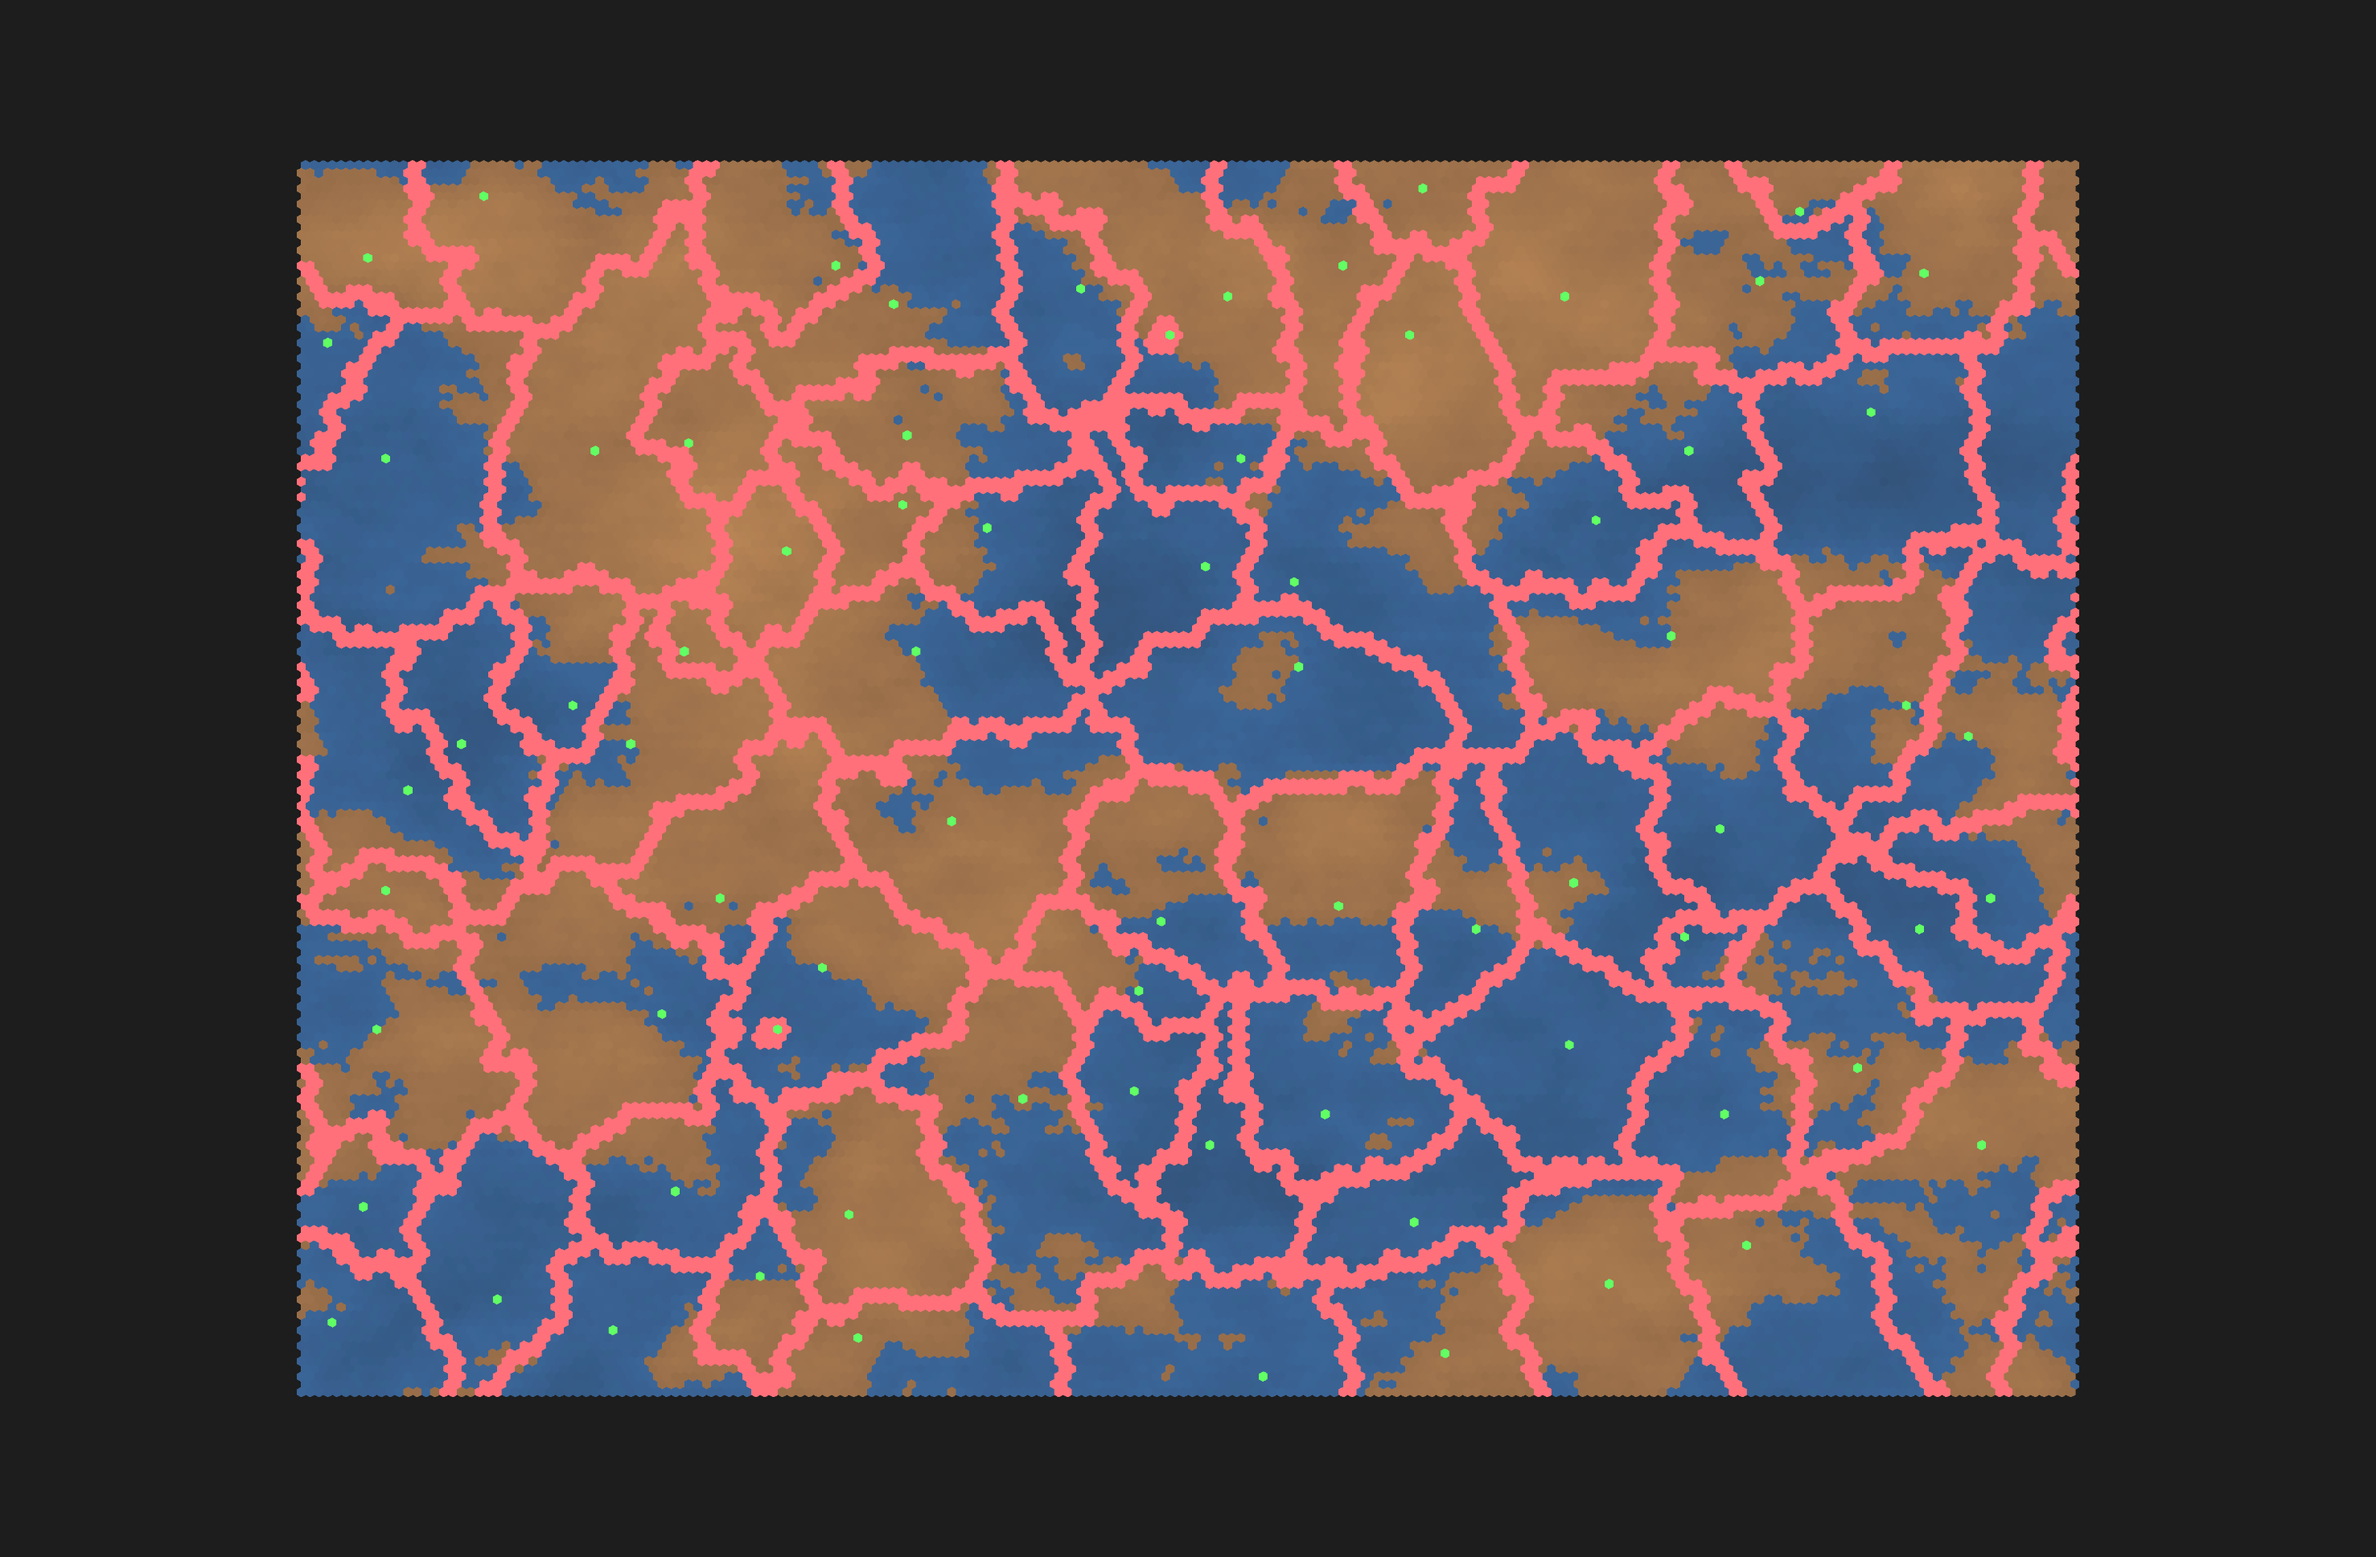
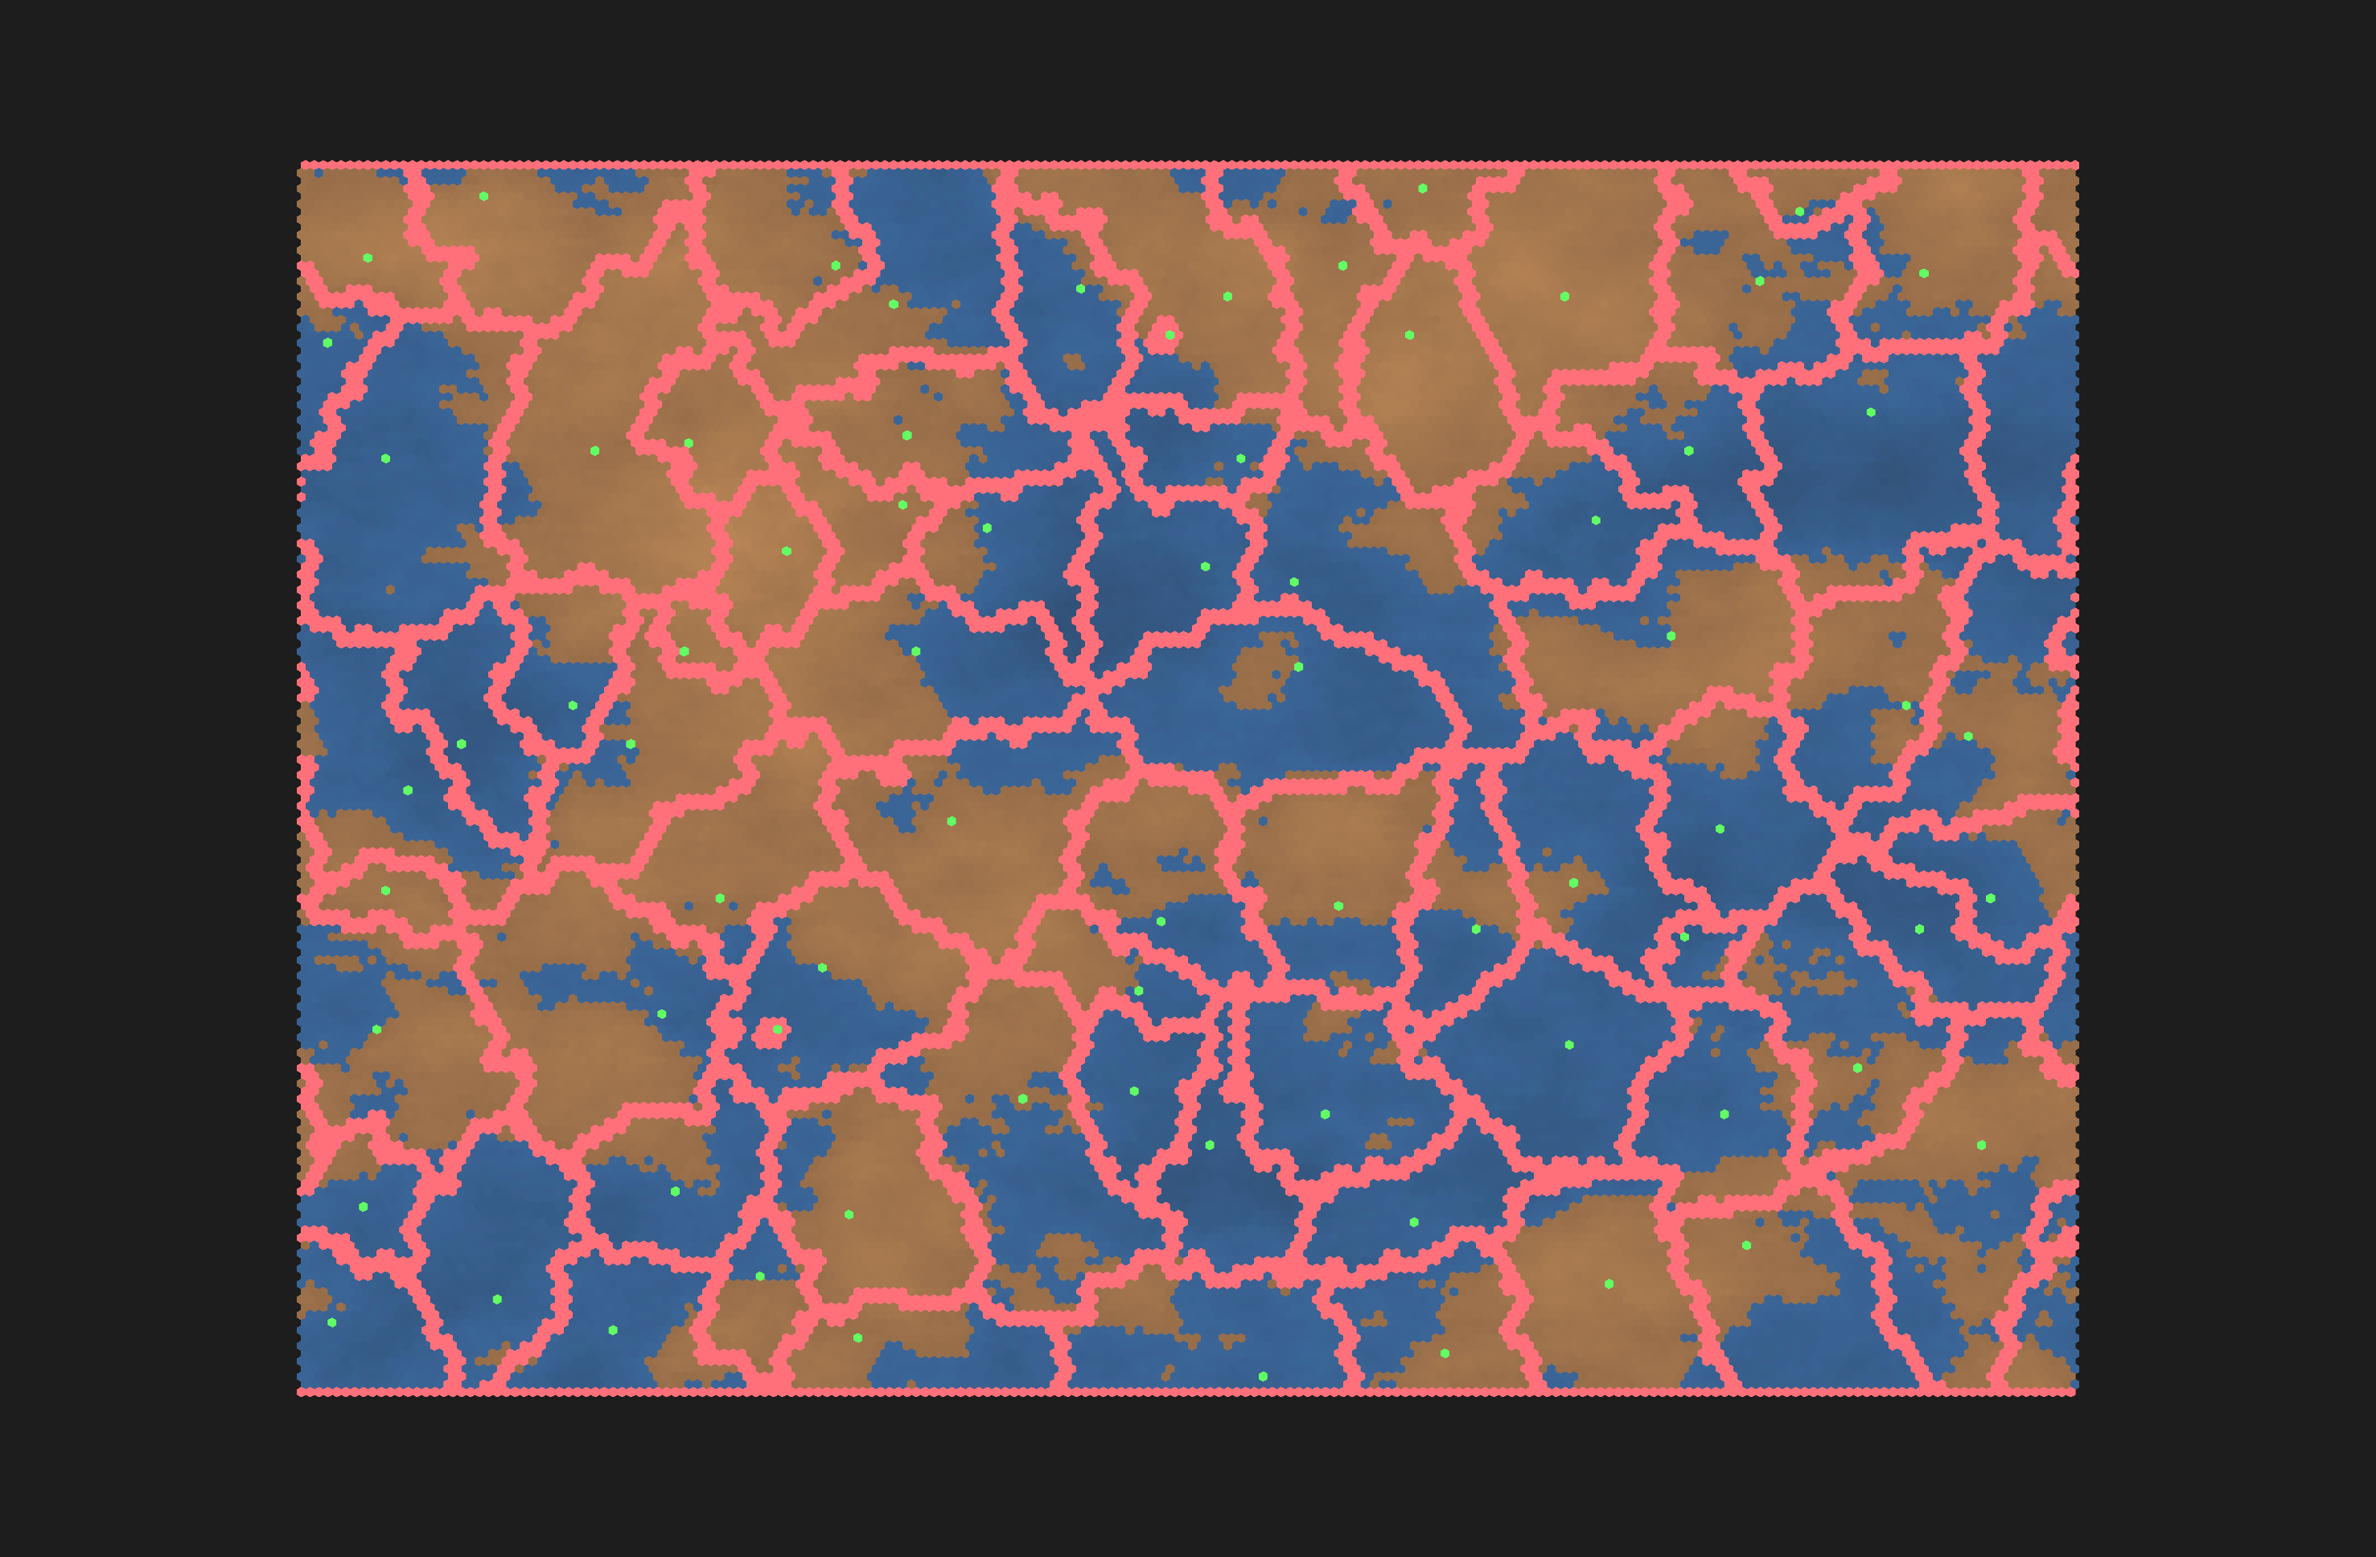
feat: identify edge borders

Changed region(s): [[0.1246, 0.093, 0.872, 0.124], [0.218, 0.8678, 0.872, 0.8988], [0.1246, 0.8678, 0.1869, 0.8988]]

diff --git a/src/topography/plates.rs b/src/topography/plates.rs
@@ -1,0 +1,119 @@
+use crate::mesh::Mesh;
+use crate::utils::queues;
+use crate::{cmd::GenerateOptions, mesh::Coord};
+use hashbrown::{HashMap, HashSet};
+use log::debug;
+use rand::{Rng, SeedableRng};
+use rand_pcg::Pcg64Mcg;
+use rayon::prelude::*;
+
+type Seeds = Vec<Coord>;
+
+trait SeedsBuilder {
+    fn build(options: &GenerateOptions, mesh: &Mesh) -> Seeds;
+}
+
+impl SeedsBuilder for Seeds {
+    fn build(options: &GenerateOptions, mesh: &Mesh) -> Seeds {
+        let mut seeds: Seeds = Vec::new();
+        let mut rng = Pcg64Mcg::seed_from_u64(options.seed);
+        let diagonal = (options.width.pow(2) as f32 + options.height.pow(2) as f32).sqrt();
+        let min_distance = diagonal / 75.0 * 2.5;
+
+        while seeds.len() < 75 {
+            let x = rng.gen_range(2..options.width - 2);
+            let y = rng.gen_range(2..options.height - 2);
+            let candidate_hex = mesh.get_hex(x as i32, y as i32);
+            if seeds.iter().all(|c: &Coord| {
+                mesh.get_hex(c.x, c.y)
+                    .axial
+                    .distance_to(candidate_hex.axial) as f32
+                    > min_distance
+            }) {
+                seeds.push(Coord::new(x as i32, y as i32));
+            }
+        }
+
+        seeds
+    }
+}
+
+const EDGE_BORDER: Coord = Coord { x: -1, y: -1 };
+
+pub struct Plate {
+    pub direction: f32,
+    pub speed: f32,
+    pub area: Vec<Coord>,
+    pub border: HashMap<Coord, Vec<Coord>>,
+}
+
+pub struct Plates {
+    pub regions: HashMap<Coord, Plate>,
+    pub map: HashMap<Coord, Coord>,
+}
+
+impl Plates {
+    pub fn new(options: &GenerateOptions, mesh: &Mesh) -> Self {
+        let mut regions = HashMap::<Coord, Plate>::new();
+        let mut map = HashMap::<Coord, Coord>::new();
+        let mut queue = queues::FIRO::<(Coord, Coord)>::new(options.seed);
+        let mut visited = HashSet::<Coord>::new();
+        let mut rng = Pcg64Mcg::seed_from_u64(options.seed);
+
+        let seeds = Seeds::build(options, mesh);
+
+        for seed in seeds {
+            queue.enqueue((seed, seed));
+            map.insert(seed, seed);
+            regions.insert(
+                seed,
+                Plate {
+                    direction: rng.gen_range(0.0..360.0),
+                    speed: 0.0,
+                    area: vec![seed],
+                    border: HashMap::new(),
+                },
+            );
+            visited.insert(seed);
+        }
+
+        while let Some((current, seed)) = queue.dequeue() {
+            for (neighbor, _wrapping) in &mesh.get_hex(current.x, current.y).neighbors {
+                if !visited.contains(neighbor) {
+                    map.insert(*neighbor, seed);
+                    regions.get_mut(&seed).unwrap().area.push(*neighbor);
+                    visited.insert(*neighbor);
+                    queue.enqueue((*neighbor, seed));
+                }
+            }
+        }
+
+        Self { regions, map }
+    }
+
+    pub fn borders(&mut self, mesh: &Mesh) {
+        self.regions.par_iter_mut().for_each(|(p_coord, plate)| {
+            debug!("Processing plate: {:?}", p_coord);
+            for hex in &plate.area {
+                let neighbors = &mesh.get_hex(hex.x, hex.y).neighbors;
+                if neighbors.len() < 6 {
+                    plate
+                        .border
+                        .entry(EDGE_BORDER)
+                        .or_insert(Vec::new())
+                        .push(*hex);
+                } else {
+                    neighbors.iter().for_each(|(neighbor, _wrapping)| {
+                        if self.map[neighbor] != *p_coord {
+                            plate
+                                .border
+                                .entry(*neighbor)
+                                .or_insert(Vec::new())
+                                .push(*hex);
+                        }
+                    });
+                }
+            }
+        })
+    }
+}

diff --git a/src/topography/mod.rs b/src/topography/mod.rs
@@ -1,12 +1,13 @@
+mod plates;
+
+use plates::Plates;
 use crate::mesh::Mesh;
 use crate::utils::noise::OctaveNoise;
-use crate::utils::queues;
 use crate::{cmd::GenerateOptions, mesh::Coord};
-use hashbrown::{HashMap, HashSet};
 use ndarray::Array2;
-use rand::{Rng, SeedableRng};
-use rand_pcg::Pcg64Mcg;
 use rayon::prelude::*;
+
+
 type Elevations = Array2<f32>;
 
 trait ElevationsBuilder {
@@ -29,105 +30,6 @@ impl ElevationsBuilder for Elevations {
 
         Array2::from_shape_vec((options.width as usize, options.height as usize), builder)
             .expect("Error creating hexes: failed to match grid dimensions with hex count.")
-    }
-}
-
-type Seeds = Vec<Coord>;
-
-trait SeedsBuilder {
-    fn build(options: &GenerateOptions, mesh: &Mesh) -> Seeds;
-}
-
-impl SeedsBuilder for Seeds {
-    fn build(options: &GenerateOptions, mesh: &Mesh) -> Seeds {
-        let mut seeds: Seeds = Vec::new();
-        let mut rng = Pcg64Mcg::seed_from_u64(options.seed);
-        let diagonal = (options.width.pow(2) as f32 + options.height.pow(2) as f32).sqrt();
-        let min_distance = diagonal / 75.0 * 2.5;
-
-        while seeds.len() < 75 {
-            let x = rng.gen_range(2..options.width - 2);
-            let y = rng.gen_range(2..options.height - 2);
-            let candidate_hex = mesh.get_hex(x as i32, y as i32);
-            if seeds.iter().all(|c: &Coord| {
-                mesh.get_hex(c.x, c.y)
-                    .axial
-                    .distance_to(candidate_hex.axial) as f32
-                    > min_distance
-            }) {
-                seeds.push(Coord::new(x as i32, y as i32));
-            }
-        }
-
-        seeds
-    }
-}
-
-pub struct Plate {
-    pub direction: f32,
-    pub speed: f32,
-    pub area: Vec<Coord>,
-    pub border: HashMap<Coord, Vec<Coord>>,
-}
-
-pub struct Plates {
-    pub regions: HashMap<Coord, Plate>,
-    pub map: HashMap<Coord, Coord>,
-}
-
-impl Plates {
-    fn new(options: &GenerateOptions, mesh: &Mesh) -> Self {
-        let mut regions = HashMap::<Coord, Plate>::new();
-        let mut map = HashMap::<Coord, Coord>::new();
-        let mut queue = queues::FIRO::<(Coord, Coord)>::new(options.seed);
-        let mut visited = HashSet::<Coord>::new();
-        let mut rng = Pcg64Mcg::seed_from_u64(options.seed);
-
-        let seeds = Seeds::build(options, mesh);
-
-        for seed in seeds {
-            queue.enqueue((seed, seed));
-            map.insert(seed, seed);
-            regions.insert(
-                seed,
-                Plate {
-                    direction: rng.gen_range(0.0..360.0),
-                    speed: 0.0,
-                    area: vec![seed],
-                    border: HashMap::new(),
-                },
-            );
-            visited.insert(seed);
-        }
-
-        while let Some((current, seed)) = queue.dequeue() {
-            for (neighbor, _wrapping) in &mesh.get_hex(current.x, current.y).neighbors {
-                if !visited.contains(neighbor) {
-                    map.insert(*neighbor, seed);
-                    regions.get_mut(&seed).unwrap().area.push(*neighbor);
-                    visited.insert(*neighbor);
-                    queue.enqueue((*neighbor, seed));
-                }
-            }
-        }
-
-        Self { regions, map }
-    }
-
-    fn borders(&mut self, mesh: &Mesh) {
-        self.regions.par_iter_mut().for_each(|(p_coord, plate)| {
-            for hex in &plate.area {
-                for (neighbor, _wrapping) in &mesh.get_hex(hex.x, hex.y).neighbors {
-                    if self.map[neighbor] != *p_coord {
-                        plate
-                            .border
-                            .entry(*neighbor)
-                            .or_insert(Vec::new())
-                            .push(*hex);
-                    }
-                }
-            }
-        })
     }
 }
 

diff --git a/src/main.rs b/src/main.rs
@@ -1,5 +1,6 @@
 use hextergen::cmd;
 
 fn main() {
+    env_logger::init();
     cmd::run();
 }

diff --git a/docs/simulation/README.md b/docs/simulation/README.md
@@ -28,8 +28,8 @@ Tectonic plates are instrumental in shaping mountain ranges and oceanic trenches
 
 The map's initiation begins with the strategic placement of seed points that act as identifiers for individual tectonic plates. I initially wanted to use a Poisson Disk approach, but the result were too uniform for my taste, so I ended upp creating a simple logic that picks the seeds randomly ensuring aminimum distance between the points.
 
-| **Custom Distribution** | **Poisson Distribution** |
-| ----------------------- | ------------------------ |
+| **Custom Distribution**                      | **Poisson Distribution**                       |
+| -------------------------------------------- | ---------------------------------------------- |
 | ![Custom Seed Placement](./custom_seeds.png) | ![Poisson Seed Placement](./poisson_seeds.png) |
 
 #### 2. Plate Growth
@@ -38,7 +38,7 @@ The growth algorithm expands each seed into a full-fledged tectonic plate using 
 
 #### 3. Plate Borders
 
-To understand the relation between the plates and how they interact, we need to define their borders. This is done by going through all hexes in a plate's area and identifying if the neighbors of the hex are from the same plate or not. If they are not, we add the hex to the border list.
+To understand the relation between the plates and how they interact, we need to define their borders. This is done by going through all hexes in a plate's area and identifying if the neighbors of the hex are from the same plate or not. If they are not, we add the hex to the border list. The plates on the top and bottom edges of the map have a special edge border identifyed by the coordinate `(-1,-1)`.
 
 ![Tectonic Plates Borders](./plates_border.png)
 
